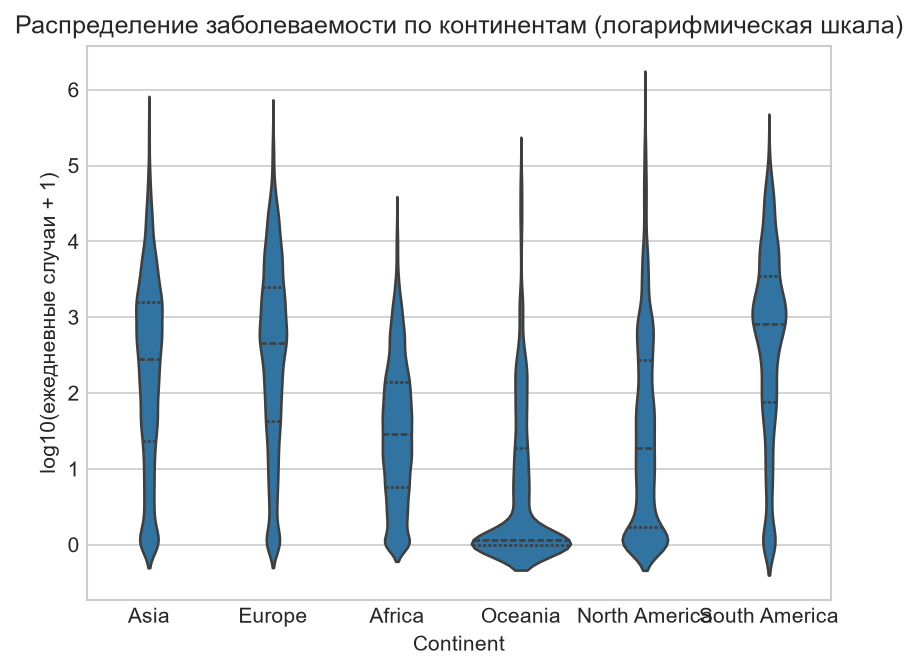
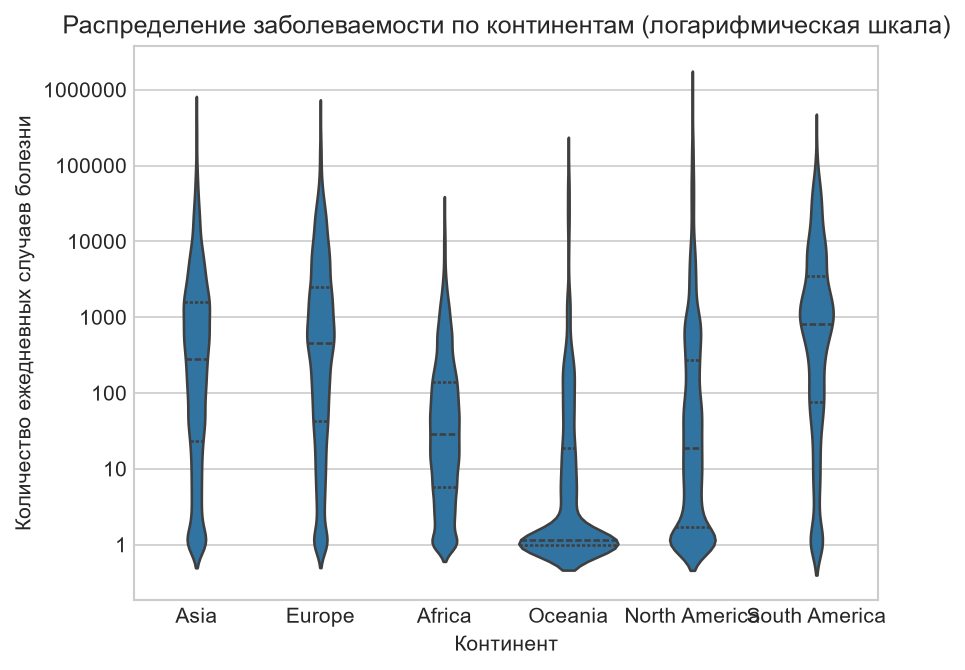
task 1 ended

diff --git a/task_1/task_1.py b/task_1/task_1.py
@@ -60,6 +60,8 @@ def get_linear_graph(df: pd.DataFrame):
     ax.plot(1, 0, '>k', transform=ax.transAxes, clip_on=False)
     ax.plot(0, 1, '^k', transform=ax.transAxes, clip_on=False)
 
+    manager = plt.get_current_fig_manager()
+    manager.window.state('zoomed')
     plt.tight_layout()
     plt.savefig(f'task_1/data/all_time_period_world_linear_chart.png', dpi=150, bbox_inches='tight')
     plt.show()
@@ -89,6 +91,8 @@ def get_pie_chart(df: pd.DataFrame):
     plt.pie(df, labels=df.index, autopct="%1.1f%%", startangle=140)
     plt.title(f"Доля заболевших на каждом континенте за все время", fontweight="bold")
     plt.legend(title="Континенты", loc="center left", bbox_to_anchor=(1, 0, 0.5, 1))
+    manager = plt.get_current_fig_manager()
+    manager.window.state('zoomed')
     plt.tight_layout()
     plt.savefig(f'task_1/data/all_time_continents_pie_chart.png', dpi=150, bbox_inches='tight')
     plt.show()
@@ -145,6 +149,8 @@ def get_bar_chart(df: pd.DataFrame):
 
     plt.xticks(rotation=45, ha="right")
     plt.bar_label(bars, padding=3, fmt="%.0f")
+    manager = plt.get_current_fig_manager()
+    manager.window.state('zoomed')
     plt.tight_layout()
     plt.savefig(f'task_1/data/top_15_countries_all_time_bar_chart.png', dpi=150, bbox_inches='tight')
     plt.show()
@@ -158,9 +164,15 @@ def get_violin_plot_data(df: pd.DataFrame):
 
 def get_violin_plot(df: pd.DataFrame):
     """Строит скрипичную диаграмму по ежедневным данным по континентам"""
+    _, ax = plt.subplots()
     sns.violinplot(data=df, x="Continent", y="log_daily", inner="quartile")
-    plt.ylabel("log10(ежедневные случаи + 1)")
+    plt.xlabel('Континент')
+    plt.ylabel("Количество ежедневных случаев болезни")
     plt.title("Распределение заболеваемости по континентам (логарифмическая шкала)")
+    ax.set_yticklabels([0,1,10,100,1000,10000,100000,1000000])    
+
+    manager = plt.get_current_fig_manager()
+    manager.window.state('zoomed')
     plt.savefig(f'task_1/data/daily_data_continents_violin_plot.png', dpi=150, bbox_inches='tight')
     plt.show()
 
@@ -316,14 +328,17 @@ def get_linear_compare(df_valid: pd.DataFrame, df_avg: pd.DataFrame, df_median: 
     
     ax.tick_params(axis="x", rotation=45)
     ax.yaxis.set_major_formatter(plt.FormatStrFormatter("%.2f"))
-    
+
+    manager = plt.get_current_fig_manager()
+    manager.window.state('zoomed')
     plt.tight_layout()
     plt.savefig(f'task_1/data/compare_filling_missed_data_linear_chart.png', dpi=150, bbox_inches='tight')
     plt.show()
     
 def get_difference_vector(df_valid: pd.DataFrame, df_restored: pd.DataFrame):
     """Вычисляет вектор ошибок для восстановленных значений"""
-    result = df_valid['Daily_new_confirmed_cases_due_to_COVID-19_(rolling_7-day_average_right-aligned)'] - df_restored['Daily_new_confirmed_cases_due_to_COVID-19_(rolling_7-day_average_right-aligned)']
+
+    result = df_valid['Daily_new_confirmed_cases_due_to_COVID-19_(rolling_7-day_average_right-aligned)'][1::2] - df_restored['Daily_new_confirmed_cases_due_to_COVID-19_(rolling_7-day_average_right-aligned)'][1::2]
     return result
 
 def sigma_method(errors: pd.Series, number: int):
@@ -338,8 +353,11 @@ def get_box_plot(errors: pd.Series):
     _, ax = plt.subplots(figsize=(12, 5))
     sns.boxplot(y=errors, ax=ax, color="skyblue")
     ax.set_title("Box-plot ошибок восстановления")
-    ax.set_ylabel("Ошибка (Real - Imputed)")
+    ax.set_ylabel("Ошибка (valid - restored)")
+    manager = plt.get_current_fig_manager()
+    manager.window.state('zoomed')
     plt.tight_layout()
+    plt.savefig(f'task_1/data/difference_box_plot.png', dpi=150, bbox_inches='tight')
     plt.show()
     
 def main():
@@ -372,6 +390,7 @@ def main():
     get_linear_compare(valid_data, average, median, average_of_3, llagrange, cube_spline)    
     
     difference_vector = get_difference_vector(valid_data, average_of_3)
+    print(difference_vector)
     print(sigma_method(difference_vector, 3))
     print(sigma_method(difference_vector, 2))
     get_box_plot(difference_vector)
